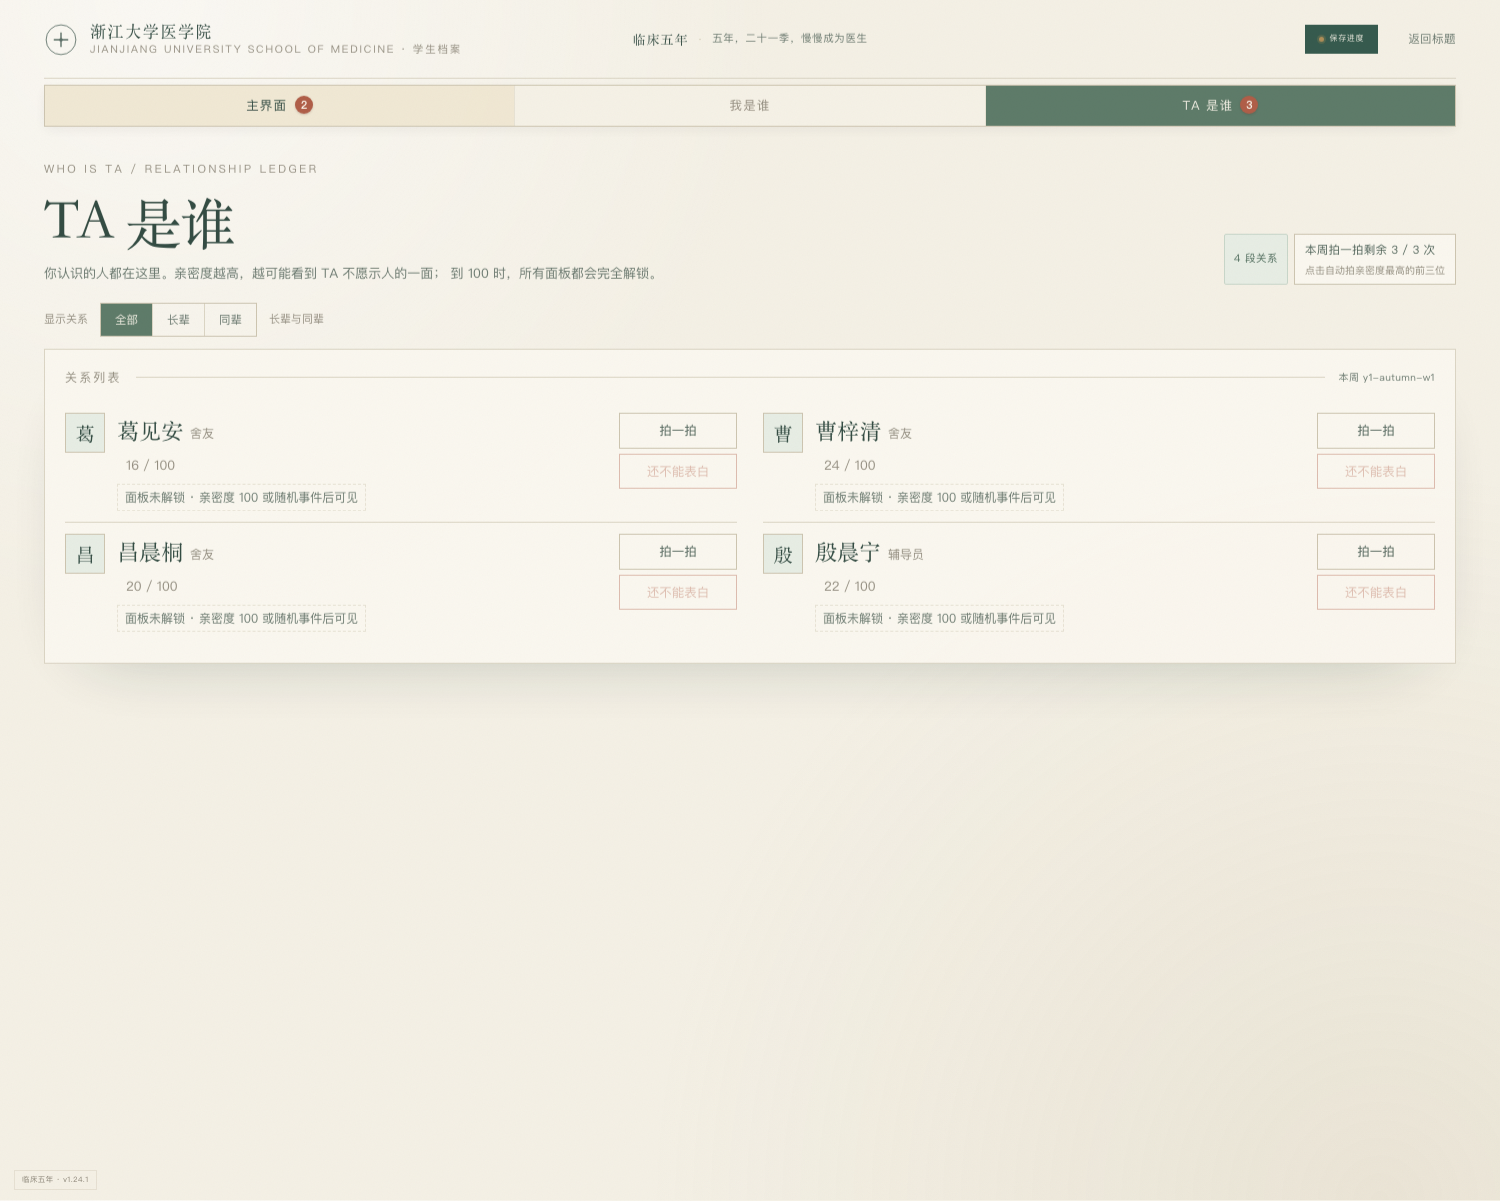
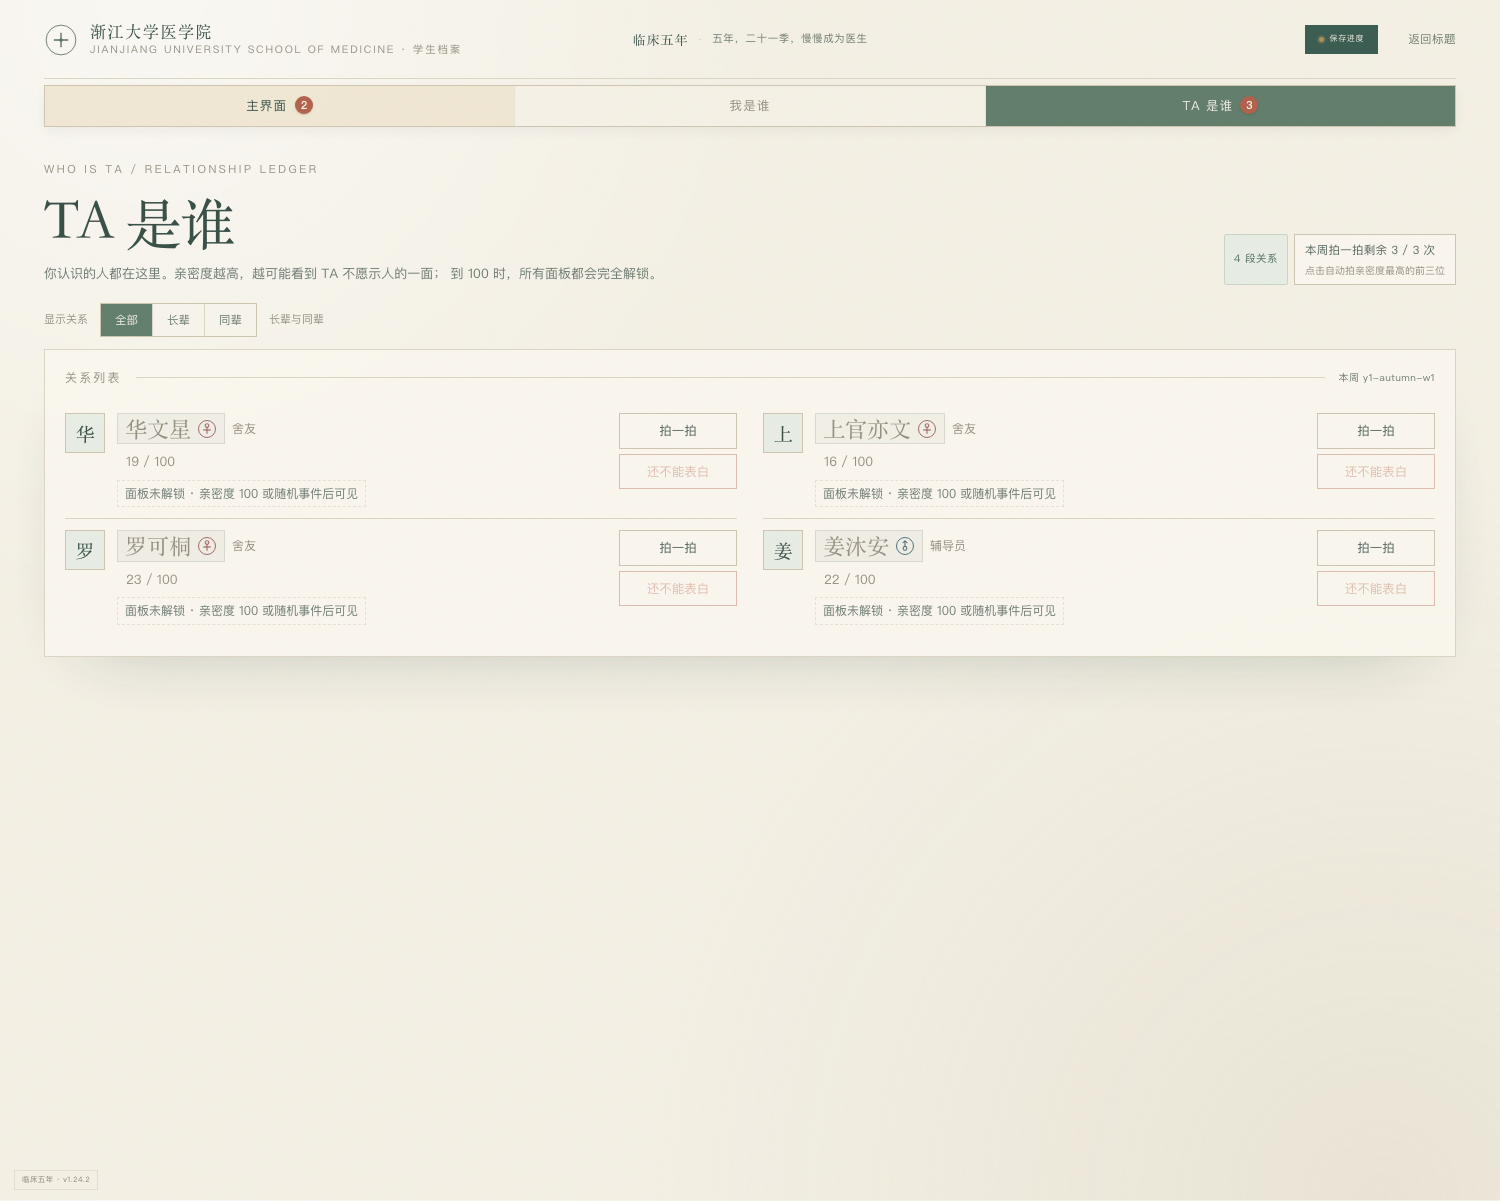
ui: gender badges and intimacy-tinted name plates

Changed region(s): [[0.0307, 0.3389, 0.92, 0.5545], [0.8893, 0.4313, 0.9507, 0.4929]]

diff --git a/src/screens/WhoIsTA.tsx b/src/screens/WhoIsTA.tsx
@@ -181,7 +181,24 @@ export function WhoIsTAScreen({
                     </div>
                     <div className="whois-main">
                       <div className="whois-name-row">
-                        <h3>{relation.name}</h3>
+                        <span
+                          className="whois-name-plate"
+                          style={{
+                            backgroundColor: `rgba(32, 59, 50, ${(
+                              0.035 +
+                              (relation.intimacy / 100) * 0.09
+                            ).toFixed(3)})`,
+                          }}
+                        >
+                          <h3>{relation.name}</h3>
+                          <span
+                            className={`whois-gender ${relation.gender === '男' ? 'is-male' : 'is-female'}`}
+                            title={relation.gender === '男' ? '男性' : '女性'}
+                            aria-label={relation.gender === '男' ? '男性' : '女性'}
+                          >
+                            {relation.gender === '男' ? '♂' : '♀'}
+                          </span>
+                        </span>
                         <span>{relation.identity}</span>
                         {relationshipKindLabel(relation.kind) !== relation.identity && (
                           <span className="whois-kind">

diff --git a/src/styles.css b/src/styles.css
@@ -8702,3 +8702,74 @@ body.dinner-open {
     gap: 5px;
   }
 }
+
+/* ---------- gender marks and intimacy-tinted name plates ---------- */
+
+.whois-name-row {
+  align-items: center;
+}
+
+.whois-name-plate {
+  display: inline-flex;
+  align-items: center;
+  gap: 7px;
+  padding: 2px 8px 2px 7px;
+  border: 1px solid rgba(32, 59, 50, 0.13);
+  transition: background-color 0.25s ease;
+}
+
+.whois-name-plate h3 {
+  margin: 0;
+  line-height: 1.15;
+}
+
+.whois-gender {
+  display: inline-grid;
+  place-items: center;
+  width: 18px;
+  height: 18px;
+  border: 1px solid currentColor;
+  border-radius: 50%;
+  font-family: var(--sans);
+  font-size: 12px;
+  font-weight: 600;
+  line-height: 1;
+}
+
+.whois-gender.is-male,
+.inline-gender.is-male {
+  color: #3c6673;
+}
+
+.whois-gender.is-female,
+.inline-gender.is-female {
+  color: #9a5a5a;
+}
+
+.inline-gender {
+  display: inline-grid;
+  place-items: center;
+  width: 16px;
+  height: 16px;
+  margin-left: 5px;
+  border: 1px solid currentColor;
+  border-radius: 50%;
+  font-family: var(--sans);
+  font-size: 10px;
+  font-weight: 600;
+  line-height: 1;
+  vertical-align: 1px;
+}
+
+@media (max-width: 820px) {
+  .whois-name-plate {
+    gap: 5px;
+    padding: 1px 6px;
+  }
+
+  .whois-gender {
+    width: 16px;
+    height: 16px;
+    font-size: 11px;
+  }
+}

diff --git a/src/screens/Week.tsx b/src/screens/Week.tsx
@@ -503,7 +503,16 @@ export function WeekScreen({
                 <div className="roommate-top">
                   <div className="roommate-avatar">{relation.name.slice(0, 1)}</div>
                   <div>
-                    <h4>{relation.name}</h4>
+                    <h4>
+                      {relation.name}
+                      <span
+                        className={`inline-gender ${relation.gender === '男' ? 'is-male' : 'is-female'}`}
+                        title={relation.gender === '男' ? '男性' : '女性'}
+                        aria-label={relation.gender === '男' ? '男性' : '女性'}
+                      >
+                        {relation.gender === '男' ? '♂' : '♀'}
+                      </span>
+                    </h4>
                     <p>
                       {relation.identity}
                       {relationshipKindLabel(relation.kind) !== relation.identity

diff --git a/index.html b/index.html
@@ -10,7 +10,7 @@
   </head>
   <body>
     <div id="root"></div>
-    <div id="app-version">临床五年 · v1.24.1</div>
+    <div id="app-version">临床五年 · v1.24.2</div>
     <script type="module" src="/src/main.tsx"></script>
   </body>
 </html>

diff --git a/README.md b/README.md
@@ -44,6 +44,7 @@ npm run preview
 - **思政必修**：马原 3 / 毛概 3 / 思修 2 / 军理 2 / 形势与政策 1，共 11 学分，作为 100% 选中的选修课在大一至大三期间完成；毕业总学分 163 专业课 + 11 思政 + 10 选修 = 184
 - **对自己好一点！**：周行动，精力 +25、压力 -15、生活费 -100、体质成长 -5；生活费不足时不可选
 - **舍友与关系**：每次新建角色生成 3 名同性别舍友和辅导员/导师；舍友每周有随机行动；亲密度 0–100，初始由建模/交际决定；面板数值默认隐藏，亲密度提升或事件刷新时以快照形式揭示，100 时完全解锁
+- **关系性别与亲密度底色**：TA 列表与舍友卡片的人名后显示 ♂/♀；人名框背景随亲密度提高而略微加深
 - **待办角标**：主界面有剩余行动时显示剩余次数；TA 页有未使用拍一拍时显示剩余次数；完成决策后角标自动消失
 - **TA 是谁**：主界面/我是谁/TA 是谁三栏切换；关系页可查看姓名、身份、亲密度，并可每周对每人拍一拍（+2 亲密度，不占行动）；每人每周一次，全周最多拍 3 次；顶部剩余次数按钮可点击，自动拍亲密度最高的前三位；支持按「长辈（导师/辅导员）」与「同辈」筛选
 - **朋友聚餐**：点击「和朋友吃饭」选择朋友，按亲密度分别判定是否应邀；基础生活费 50，每多一人赴约减 5（2 人 50 / 3 人 45 / 4 人 40）；不再增加综测，赴约者分配总共 6 点亲密度（1 人 +6、2 人各 +3、3 人各 +2、4 人各 +1）
@@ -141,4 +142,4 @@ scripts/          Playwright 本地截图与流程检查脚本
 - 当前为 UI 与系统初稿，数值平衡、事件文案与医学内容仍需后续迭代。
 
 
-当前页面构建版本：**v1.24.1**；版本号在桌面端固定显示在网页左下角，移动端显示在页面底部。
+当前页面构建版本：**v1.24.2**；版本号在桌面端固定显示在网页左下角，移动端显示在页面底部。
